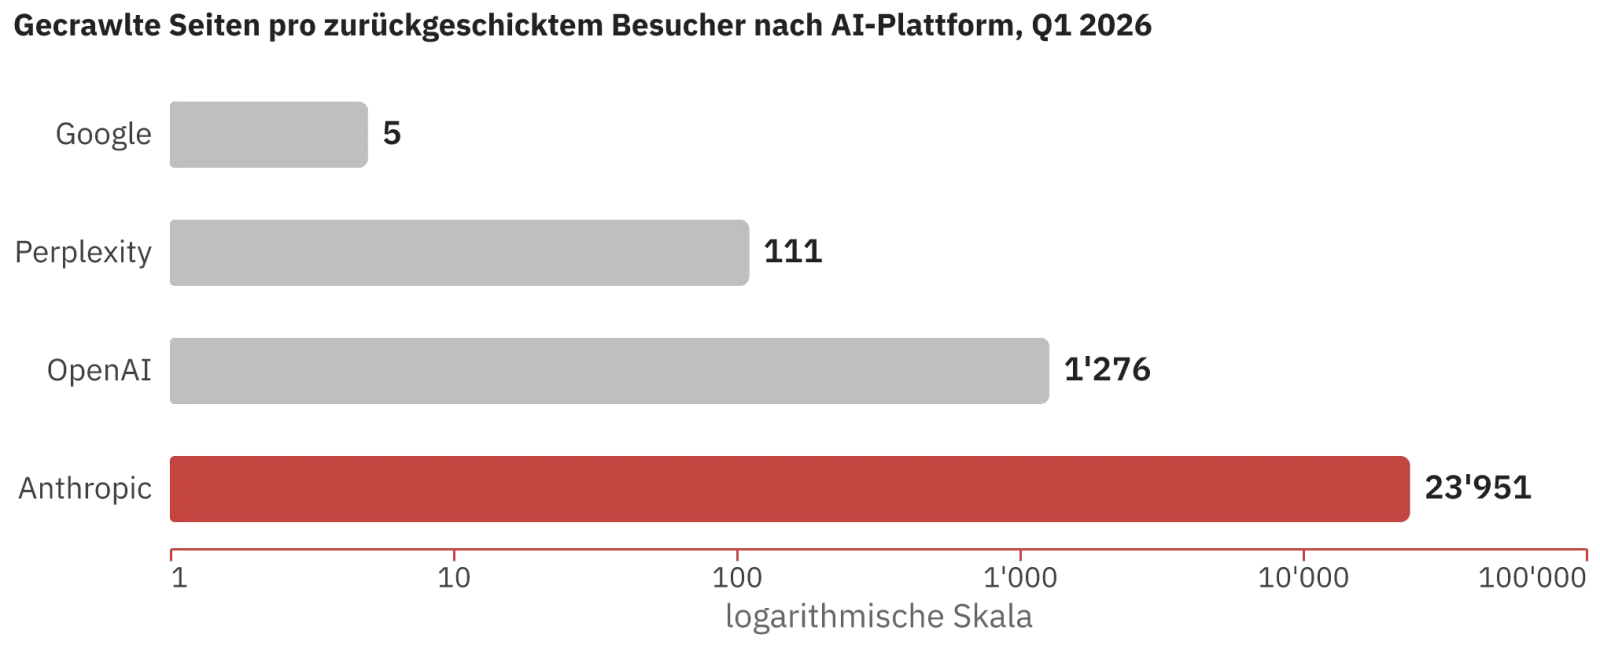
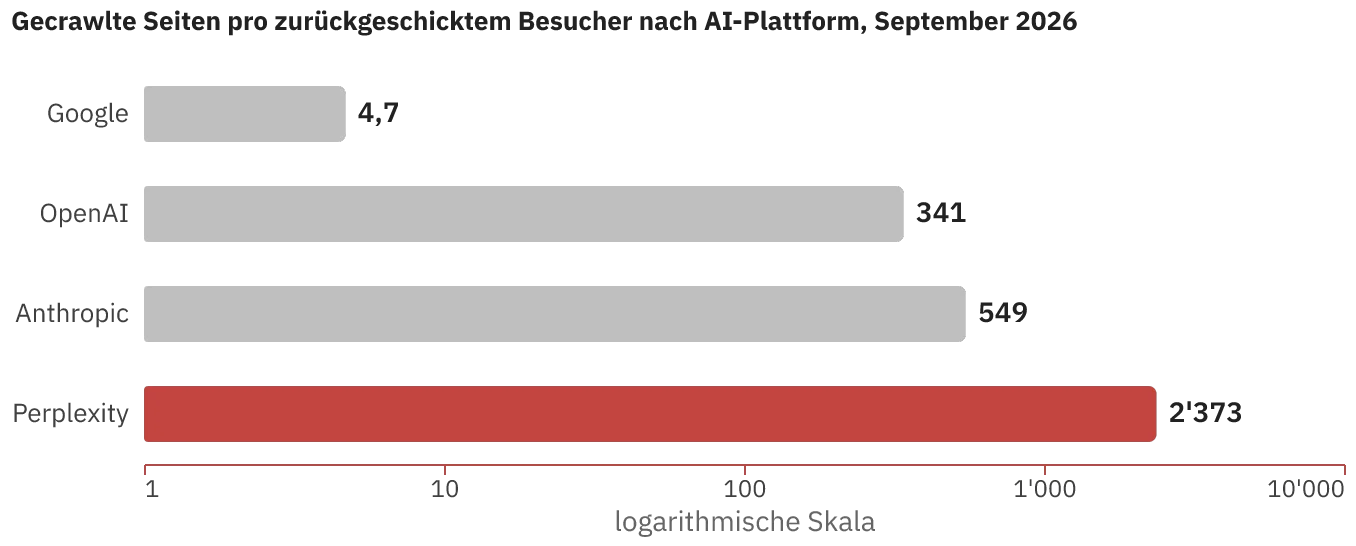
Zero-Click überarbeitet: mehr Meinung, weniger Zahlen, Grafik auf September 2026, Belege korrigiert
Claude-Session: https://claude.ai/code/session_014xHypyJL9SCc3JjyVvUSkK

diff --git a/src/content/perspektiven/zero-click.md b/src/content/perspektiven/zero-click.md
@@ -1,8 +1,8 @@
 ---
 title: "93 Prozent Zero-Click"
-description: "24'000 Crawls pro Referral bei Anthropic – und das ist schon eine Verbesserung. Was die Cloudflare-Zahlen über das zweite Unbundling verraten."
+description: "Im AI Mode von Google blieben in einer US-Messung 93 Prozent der Sitzungen ohne Klick. Warum ein Reporting, das nur die Summe zeigt, davon kaum etwas merkt."
 date: 2026-04-16
-updated: 2026-10-01
+updated: 2026-11-01
 category: "KI & AdTech"
 image: "/images/perspektiven/zero-click-crawl-to-refer.webp"
 icon: "/images/perspektiven/icons/zero-click.webp"
@@ -10,55 +10,33 @@ draft: false
 series: "ai-digitale-werbung"
 ---
 
-Knapp 24'000-mal crawlte ein Anthropic-Bot im ersten Quartal 2026 eine Website für einen Besucher, der an den Publisher zurückgeschickt wurde. So steht es in einer Auswertung von Cloudflare-Radar-Daten durch [SEOmator](https://seomator.com/blog/crawl-to-refer-ratio-ai-crawlers-llm-bots) mit Stand März 2026. [Im Januar 2025](https://blog.cloudflare.com/crawlers-click-ai-bots-training/) waren es noch 286'000. Das Verhältnis wird besser und lag trotzdem knapp 5'000-mal über dem von Google.
+Im September 2026 rief der Crawler von Perplexity rund 2'400 Seiten ab, bis einmal ein Mensch auf die Quelle zurückklickte. Im Januar war es weniger als ein Zwanzigstel davon. Anthropic ging den umgekehrten Weg, von rund 48'000 auf 549, seit Claude auf seine Quellen verlinkt; Google kommt auf rund 5. So steht es in einer [Auswertung von Cloudflare-Daten](https://seomator.com/blog/crawl-to-refer-ratio-ai-crawlers-llm-bots). Als Leser wäre so ein Bot bemerkenswert gründlich. Als Besucher taugt er für einen Publisher nichts, denn er sieht keine Werbung und schliesst kein Abo ab.
 
-Wer ChatGPT eine Frage stellt, klickt selten weiter, weil die Antwort schon dasteht. Publisher, deren Geschäft auf Traffic gebaut ist, verlieren damit im laufenden Quartal die Grundlage ihrer Erlösstruktur.
+![Gecrawlte Seiten pro zurückgeschicktem Besucher nach AI-Plattform im September 2026, logarithmische Skala: Google 4,7, OpenAI 341, Anthropic 549, Perplexity 2'373.](/images/perspektiven/zero-click-crawl-to-refer.svg)
 
-## Wie weit das schon geht
+*Quelle: Cloudflare Radar, ausgewertet von [SEOmator](https://seomator.com/blog/crawl-to-refer-ratio-ai-crawlers-llm-bots), Monatswerte September 2026.*
 
-Bei klassischen Google-Suchen blieben in den USA von Januar bis April 2026 [68% ohne Klick](https://sparktoro.com/blog/in-2026-less-than-one-third-of-google-searches-still-send-a-click), 2024 waren es noch 60%. In Googles AI Mode, der die Trefferliste durch eine Antwort ersetzt, führen nur 6 bis 8% der Sitzungen auf eine fremde Website; [93% bleiben ohne Klick](https://www.semrush.com/blog/google-ai-mode-seo-impact/). Für ChatGPT gibt es keine vergleichbare Messung, aber Ahrefs misst dort eine um [96% tiefere Klickrate](https://ahrefs.com/blog/chatgpt-has-12-percent-of-googles-search-volume/) auf externe Websites als bei Google.
+Wer ChatGPT oder Googles AI Mode etwas fragt, bekommt die Antwort gleich mitgeliefert und [klickt selten weiter](https://ahrefs.com/blog/chatgpt-has-12-percent-of-googles-search-volume/). In einer [Messung von Semrush](https://www.semrush.com/blog/google-ai-mode-seo-impact/) aus den USA blieben in den ersten Monaten des AI Mode 93 Prozent der Sitzungen ohne Klick auf eine fremde Website. Für Publisher, deren Geschäft auf Besuchen gebaut ist, halte ich das für den tiefsten Einschnitt seit dem Wechsel vom Papier ins Netz, auch wenn er leiser daherkommt.
 
-AI Overviews, die Zusammenfassungen über den Google-Treffern, erscheinen in den USA bei [rund 60% aller Suchanfragen](https://xponent21.com/insights/google-ai-overviews-surpass-60-percent/). Auf Suchen mit einem solchen Überblick fiel die [organische Klickrate](https://www.seerinteractive.com/insights/aio-impact-on-google-ctr-september-2025-update) zwischen Juni 2024 und September 2025 von 1,76% auf 0,61%. Publisher erwarten laut einer [Reuters-Erhebung](https://reutersinstitute.politics.ox.ac.uk/journalism-media-and-technology-trends-and-predictions-2026), dass der Suchmaschinen-Traffic in den nächsten drei Jahren um über 40% zurückgeht.
+## Das Reporting bleibt ruhig
 
-## Wo der Default schon kippt
+Für den deutschsprachigen Raum gibt es einen ersten Datenpunkt. Die Agentur Seokratie verglich über drei Jahre, jeweils im April, den Verkehr von [69 deutschsprachigen Websites](https://www.seokratie.de/unternehmensnews/traffic-bleibt-aber-loest-sich-von-google/) aus Handel, Industrie und Dienstleistung. Die Summe blieb nahezu gleich. Der Anteil von Google fiel von gut 40 auf 22 Prozent, der Verkehr aus KI-Tools stieg auf 0,4 Prozent. Repräsentativ ist das nicht, das sagen die Autoren selbst. Dazu kommt, dass ein Teil der KI-Klicks ohne Herkunftsangabe ankommt und in der Statistik unter «Direct» landet.
 
-In den USA verarbeitet ChatGPT bereits [17,1% aller digitalen Queries](https://firstpagesage.com/seo-blog/google-vs-chatgpt-market-share-report/). Bei der Gen Z liegt die Plattform fast gleichauf mit Google: [66% nutzen ChatGPT, 69% Google](https://www.frac.tl/ai-vs-seo-how-generative-search-is-reshaping-discovery-content-strategy-and-consumer-trust-in-2025/).
+Ein Reporting, das nur den Gesamtverkehr ausweist, meldet in dieser Lage Stabilität, während sich der Google-Anteil fast halbiert. Es schlägt erst an, wenn der Ersatz ausbleibt, und dann ist die Entwicklung nicht mehr neu. Wer seinen Verkehr nach Herkunft liest statt in der Summe, sieht sie in diesen Daten früh.
 
-Diese Zahlen stammen aus US-Erhebungen. Für den deutschsprachigen Raum gibt es seit Mai einen ersten Datenpunkt. Die Agentur Seokratie hat für [69 deutschsprachige Websites](https://www.seokratie.de/unternehmensnews/traffic-bleibt-aber-loest-sich-von-google/) aus Handel, Industrie und Dienstleistung die GA4-Zahlen für den April 2024, 2025 und 2026 verglichen. Der Gesamtverkehr steht still, bei rund 6,4 Millionen Sitzungen. Der Google-Anteil fällt von gut 40% auf 22%. Der Verkehr aus KI-Tools verdreissigfacht sich und liegt danach bei 0,4%. Auf jede gewonnene KI-Sitzung kommen 41 verlorene Google-Sitzungen.
+## Wer jetzt zwischen Leser und Quelle steht
 
-Repräsentativ ist das nicht, und die Autoren sagen es selbst: 69 Kunden derselben SEO-Agentur, ohne offengelegte Methodik, wie KI-Verkehr überhaupt erkannt wird. Klicks aus ChatGPT kommen je nach Client ohne Referrer an und landen in der Statistik unter Direct; die 0,4% sind eine Untergrenze. Was auch dann hält, ist die stillstehende Summe. Ein Reporting, das nur den Gesamtverkehr ausweist, schlägt nicht an, obwohl sich der Google-Anteil fast halbiert hat.
+Yahoo verlor an Google, weil Google das Netz über Suchqualität erschloss statt über ein Verzeichnis. Heute läuft dieselbe Bewegung eine Stufe weiter, zur fertigen Antwort. Ob am Ende OpenAI, Google mit dem AI Mode oder Perplexity vorne liegt, ist offen. Google hat Distribution, Cashflow und fast 30 Jahre Index und kannibalisiert sich lieber selbst, als das Feld zu räumen. Für Publisher ist die Frage nach dem Sieger zweitrangig: Wer auch immer gewinnt, steht zwischen Leser und Quelle und hat wenig Grund, den Leser weiterzuschicken.
 
-## Was Cloudflare sieht
-
-Cloudflare schützt rund 20% aller Websites weltweit und sieht deshalb, wer crawlt und wer im Gegenzug Traffic zurückschickt. Das Verhältnis zählt, wie viele Seiten ein Bot abruft, bis einmal ein Besucher auf die Quelle zurückkommt.
-
-![Gecrawlte Seiten pro zurückgeschicktem Besucher nach AI-Plattform, Durchschnitt Q1 2026, logarithmische Skala: Google 5, Perplexity 111, OpenAI 1'276, Anthropic 23'951.](/images/perspektiven/zero-click-crawl-to-refer.svg)
-
-*Quelle: Cloudflare Radar, ausgewertet von [SEOmator](https://seomator.com/blog/crawl-to-refer-ratio-ai-crawlers-llm-bots), Durchschnitt Q1 2026, Stand März 2026. Die Auswertung wird laufend aktualisiert.*
-
-Bei Anthropic bewegt sich das Verhältnis in die richtige Richtung: von 286'000 zu 1 im Januar 2025 auf knapp 12'000 im März 2026 und laut der aktualisierten SEOmator-Auswertung auf rund 2'200 im Juli 2026. Auslöser war Claudes Web-Suche mit klickbaren Quellen, seit Mai 2025 für alle Nutzer. Auch 2'200 zu 1 liegt noch weit über Googles 5 zu 1. Für Verlage und News-Sites misst Cloudflare bei Anthropic [2'500 zu 1](https://blog.cloudflare.com/ai-crawler-traffic-by-purpose-and-industry/), deutlich besser als im Schnitt. Google crawlt viel, generiert über die klassische Indexierung aber weiterhin den Grossteil seines Referral-Traffics.
-
-Wie Publisher und Brands darauf reagieren, steht in ihrer robots.txt. Dort entscheidet sich, welcher Crawler überhaupt hereingelassen wird. Ich erhebe das alle 14 Tage über gut 100 Sites, Schwerpunkt Schweiz: [AI-Crawler-Radar](/ai-crawler-radar/).
-
-## Der nächste Integrator
-
-Yahoo verlor an Google, weil ein neuer Integrator auf einer neuen Ebene entstand: Suchqualität statt Verzeichnis. Heute läuft dieselbe Bewegung eine Stufe weiter, zur fertigen Antwort. Wer am Ende dominiert, ob OpenAI, Google mit AI Mode oder Perplexity, ist offen. Google hat Distribution, Cashflow und 25 Jahre Index und kannibalisiert sich lieber selbst, als das Feld zu räumen. Verschoben hat sich trotzdem, wer zwischen Leser und Quelle steht, und für Publisher zählt das unabhängig vom Sieger.
-
-## Wo Sichtbarkeit jetzt entsteht
-
-Was ChatGPT in seiner Antwort nicht nennt, findet ein wachsender Teil der Nutzer gar nicht erst.
-
-SXO und AIO, Search Experience Optimization und AI Optimization, messen andere Grössen als klassisches SEO. Share of Voice in AI-Antworten, Sentiment der Erwähnungen, Zitierungshäufigkeit: daran misst sich Markenaufbau künftig. Wer jetzt keine Baseline aufbaut, hat in zwei Jahren nichts zu vergleichen.
+Einen Teil der Reaktion von Publishern und Brands zeigt die robots.txt: Dort entscheidet sich, welcher Crawler überhaupt hereingelassen wird. Ich erhebe das alle 14 Tage über gut 100 Sites mit Schwerpunkt Schweiz: [AI-Crawler-Radar](/ai-crawler-radar/).
 
 ## Was Publisher daraus machen können
 
-Keine Strategie erhält den Status quo. Weiter helfen Schritte, die nicht am Algorithmus hängen.
+Die naheliegende Antwort ist technisch: Inhalte maschinenlesbar machen, damit sie in den Antworten überhaupt vorkommen. Generative Engine Optimization ist SEO mit einem anderen Ziel, der Erwähnung in einer Antwort statt der Position in der Trefferliste. Wer jetzt misst, wie oft und in welchem Ton die eigene Marke in KI-Antworten auftaucht, hat in zwei Jahren eine Vergleichsbasis und nicht bloss ein Gefühl.
 
-Die naheliegende ist technisch: Inhalte maschinenlesbar machen, Metadaten und Taxonomien sauber halten, strukturierte Daten konsequent ausspielen. Generative Engine Optimization ist SEO mit einem anderen Ziel: der Erwähnung in einer Antwort statt der Position in der Trefferliste.
+Robuster sind direkte Beziehungen zu Newsletter-Abonnenten, App-Nutzern und zahlenden Lesern. Diese Reichweite kassiert kein Update.
 
-Robuster ist der Aufbau direkter Beziehungen. Newsletter-Abonnenten, App-Nutzer, zahlende Leser sind Reichweite, die kein Algorithmus-Update kassiert.
-
-Content-Licensing bleibt der Sonderfall: Reddit hat Datenlizenzen an Google, OpenAI und weitere Abnehmer verkauft, keine davon exklusiv, und kommt damit auf [rund 5 bis 6% des Umsatzes](https://www.cnbc.com/2026/07/30/reddit-rddt-q2-2026-earnings-report.html), trotz zwei Jahrzehnten einzigartiger nutzergenerierter Inhalte. Für Schweizer Publisher ohne globale Reichweite taugt Licensing höchstens als Versuch.
+Bleibt das Licensing. Reddit hat Datenlizenzen an Google, OpenAI und weitere Abnehmer verkauft; die Sparte, zu der dieses Geschäft gehört, brachte im zweiten Quartal 2026 [rund 5 Prozent des Umsatzes](https://www.cnbc.com/2026/07/30/reddit-rddt-q2-2026-earnings-report.html), nach zwei Jahrzehnten einzigartiger Inhalte seiner Nutzer. Wenn so viel Material höchstens ein Zwanzigstel des Umsatzes einbringt, taugt Licensing für einen Schweizer Verlag ohne globale Reichweite höchstens als Versuch.
 
 **Mehr aus diesem Thema:** Der Text greift einen von fünf Trends aus dem Rahmen-Artikel [Das doppelte Unbundling](/perspektiven/das-doppelte-unbundling/) heraus. Dort beschreibe ich das Muster, das die fünf Trends verbindet.
 
